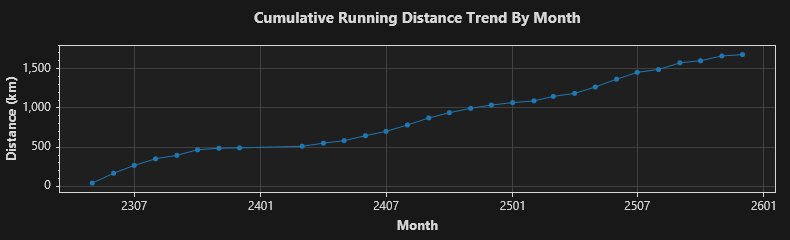
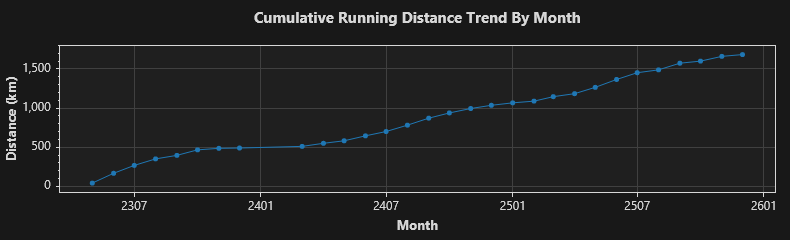
2025/12/8 跑步 5.11 公里

diff --git a/trend.md b/trend.md
@@ -1,4 +1,4 @@
-### Total: 282 days, 1678.96 km.
+### Total: 283 days, 1684.07 km.
 
 
 ![Monthly](https://github.com/prime167/MyRunningLog/blob/main/data/CumulativeTrendByMonth.png)
